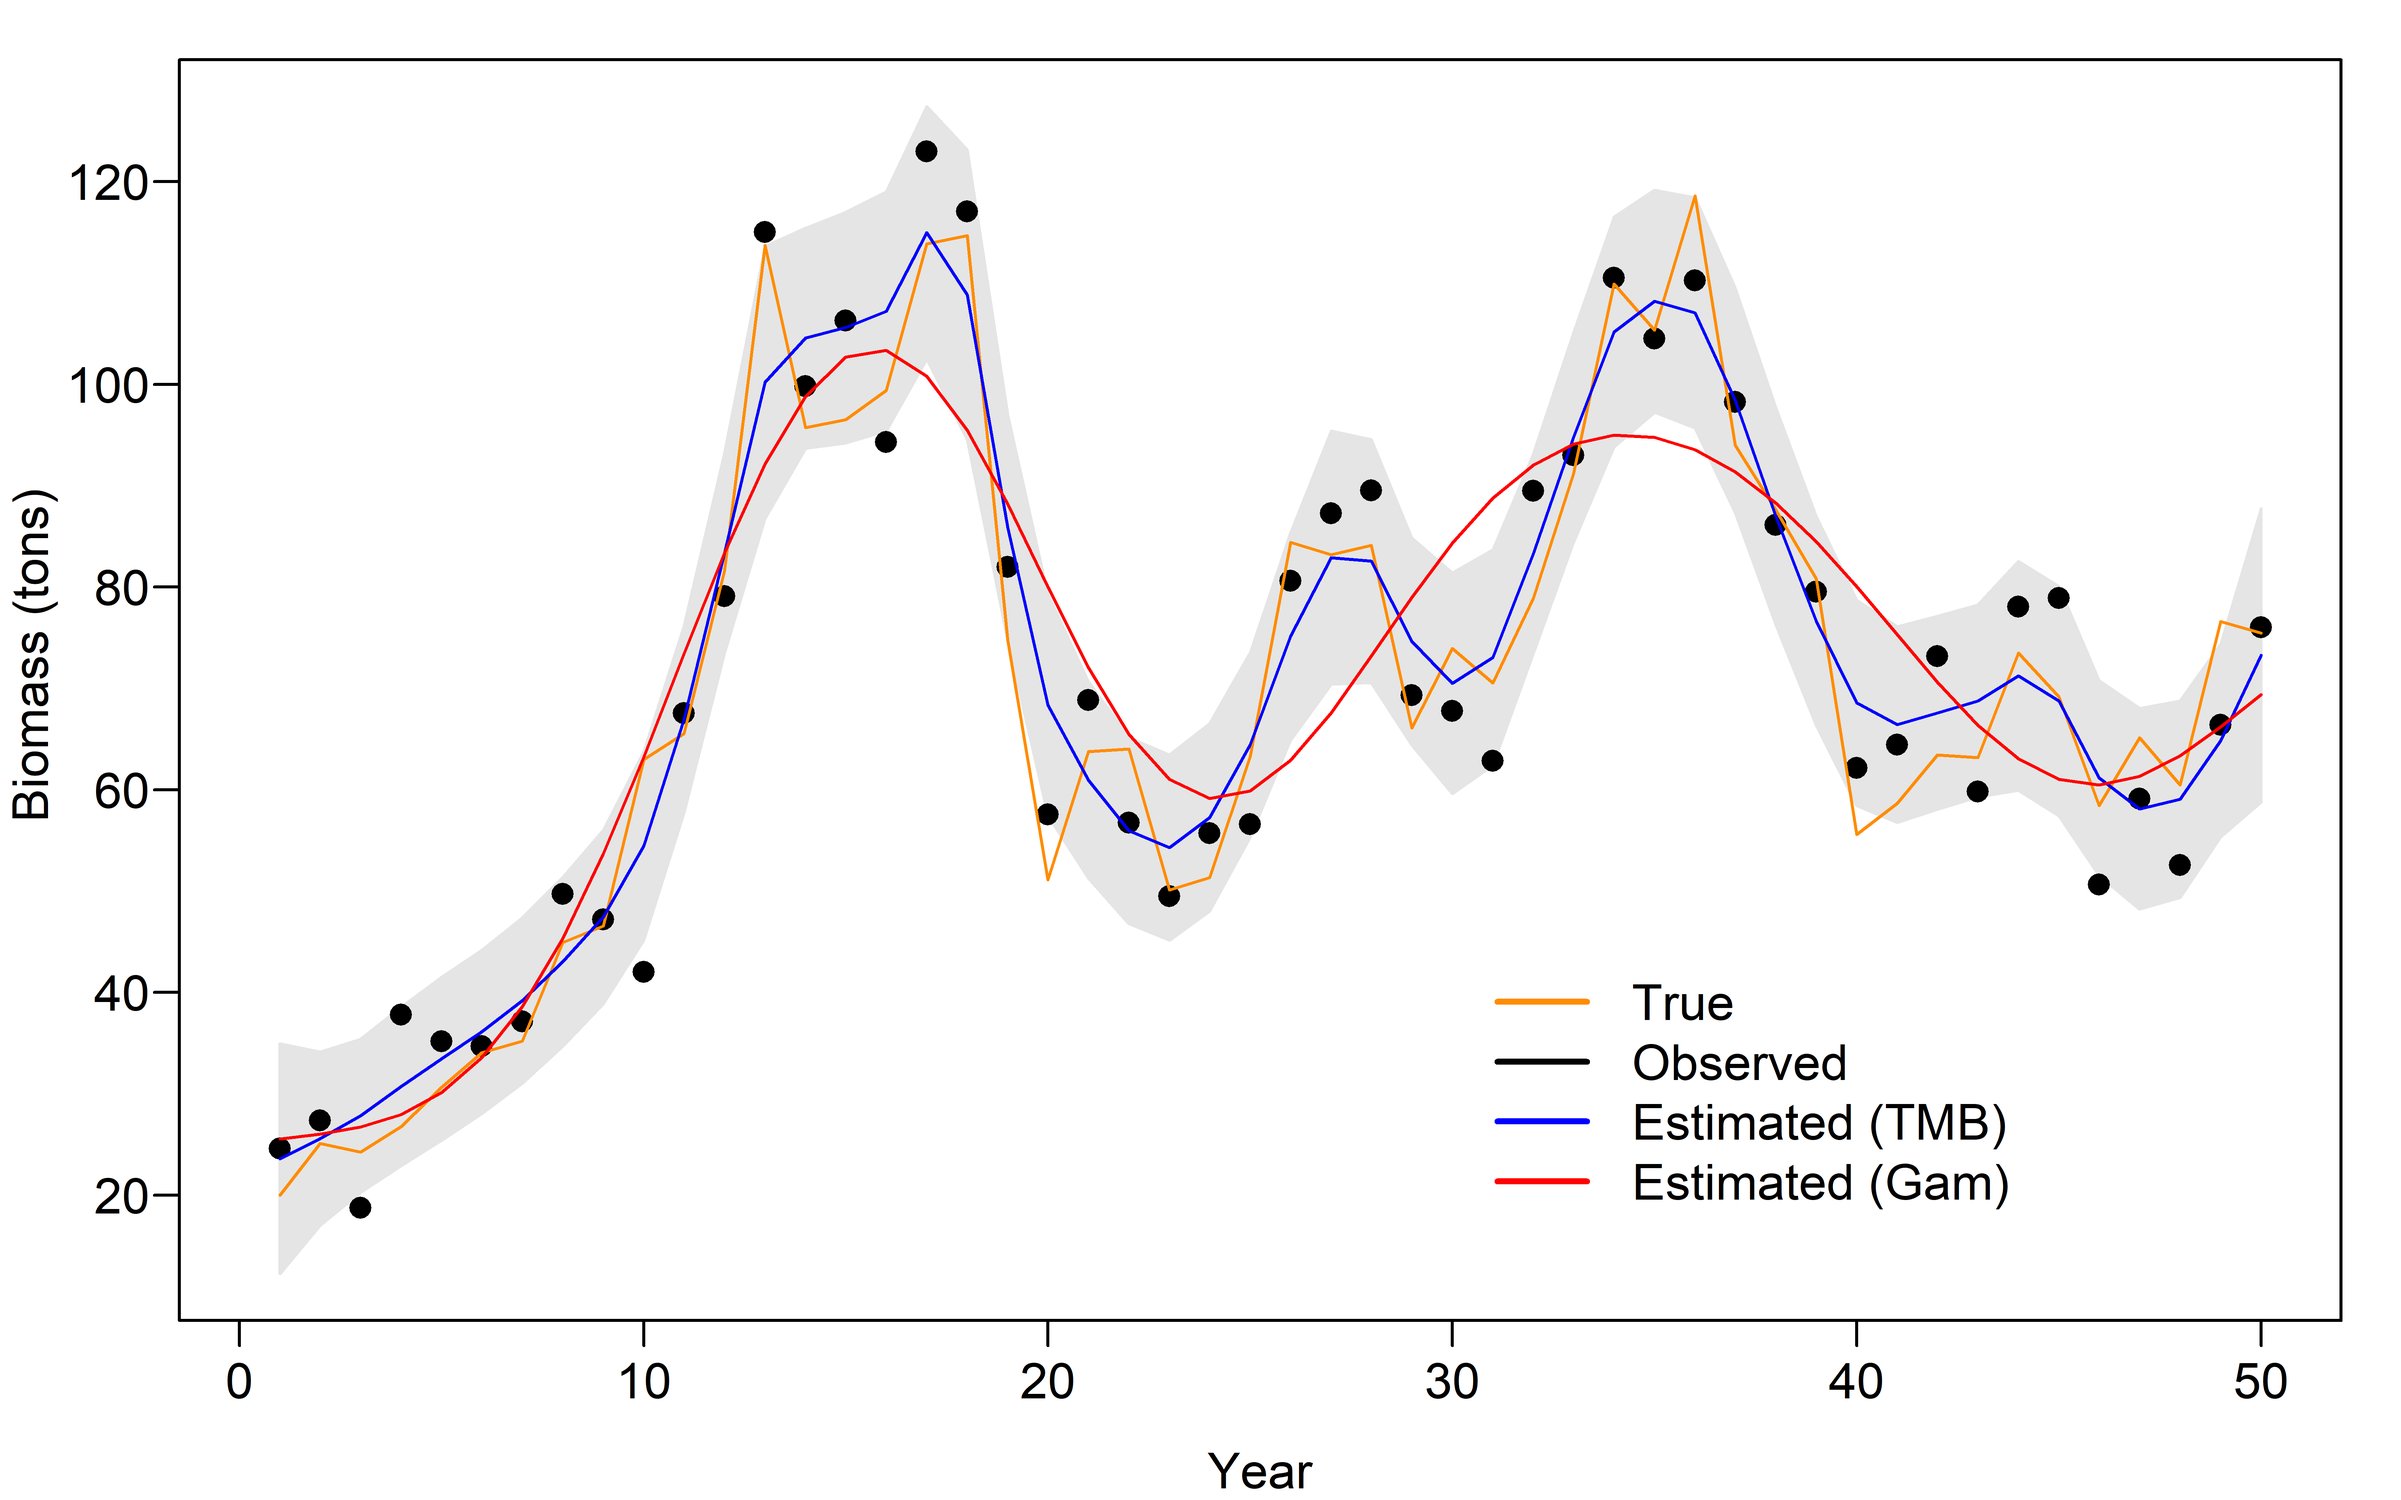
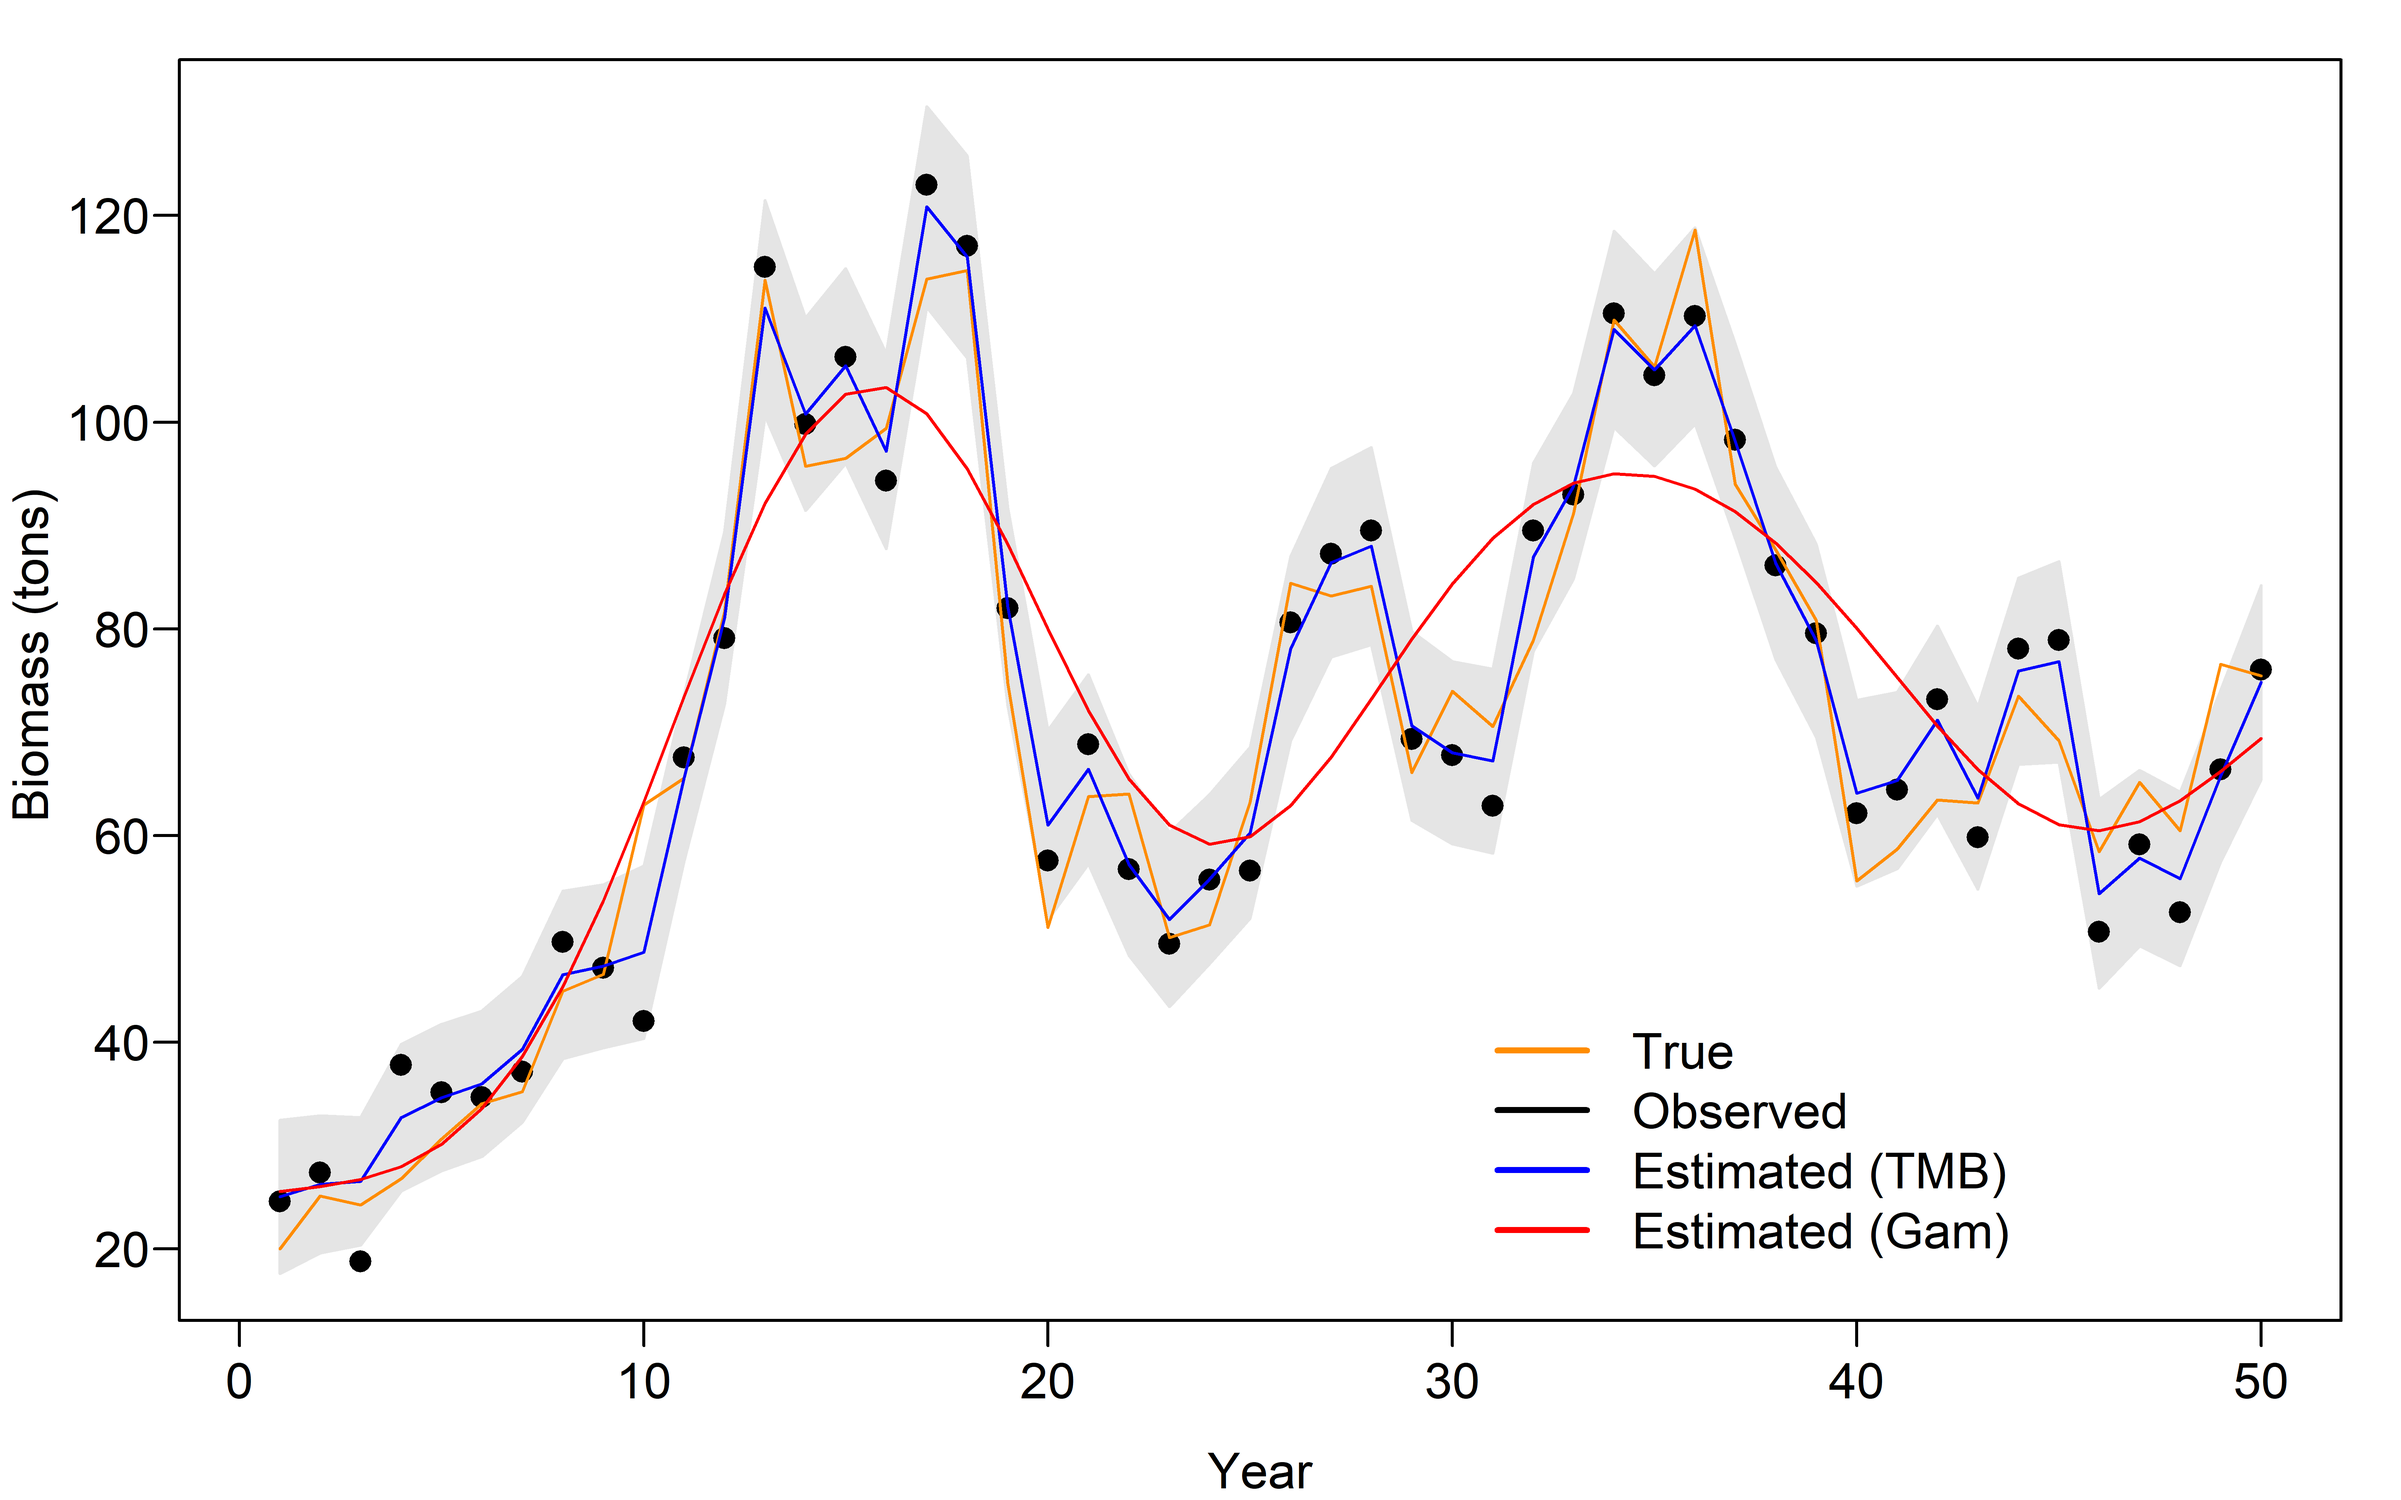
fix chris' stupid coding error

diff --git a/week 4/kalman.cpp b/week 4/kalman.cpp
@@ -1,0 +1,44 @@
+#include <TMB.hpp>
+template<class Type>
+Type objective_function<Type>::operator() ()
+{
+  // Data
+  DATA_INTEGER( nt );
+  DATA_VECTOR( y_t );       
+  
+  // Parameters
+  PARAMETER( x0 );
+  PARAMETER( log_sigmaP );  
+  PARAMETER( log_sigmaO );  
+  PARAMETER( alpha ); //drift
+  PARAMETER_VECTOR( x_t );
+  
+  // Objective funcction
+  Type jnll = 0;
+  
+  //random effect
+  jnll -= dnorm( x_t(0), x0, exp(log_sigmaP), true ); 
+  
+  for( int t=1; t<nt; t++){
+    jnll -= dnorm( x_t(t), x_t(t-1) + alpha, exp(log_sigmaP), true );
+  }
+  
+  // Probability of observations conditional on fixed and random effect values
+  for( int t=0; t<nt; t++){
+    jnll -= dnorm( y_t(t), x_t(t), exp(log_sigmaO), true );
+  }
+  
+  // Reporting
+  Type sigmaP = exp(log_sigmaP);
+  Type sigmaO = exp(log_sigmaO);
+  
+  REPORT( sigmaP );
+  REPORT( sigmaO );
+  REPORT( x_t );
+  
+  ADREPORT( sigmaP );
+  ADREPORT( sigmaO );
+  ADREPORT( x_t );
+  
+  return jnll;
+}

diff --git a/week 4/state_space_exponential.cpp b/week 4/state_space_exponential.cpp
@@ -34,10 +34,12 @@ Type objective_function<Type>::operator() ()
   biomass_t(0) = exp(logB0); //condition on B0
   // Probability of random coefficients--lambda_t --> vector of latent states
   //sweep downstream through time-series | B0, mu_lambda
-  for( int t=1; t<Nyears; t++ ){
-    jnll -= dnorm( lambda_t(t), mu_lambda, exp(log_sigmaP), true ); 
+  //jnll = dnorm(lambda_t(0), mu_lambda, exp(log_sigmaP), true); 
+  
+  for( int t=0; t<(Nyears-1); t++ ){
+    jnll -= dnorm( lambda_t(t), mu_lambda, exp(log_sigmaP), true );
     //jnll -= dnorm( lambda_t(t), lambda_t(t-1), exp(log_sigmaP), true ); 
-    biomass_t(t) = lambda_t(t-1)*biomass_t(t-1); 
+    biomass_t(t+1) = lambda_t(t)*biomass_t(t); 
   }
   
   // Probability of data conditional on fixed and random effect values
